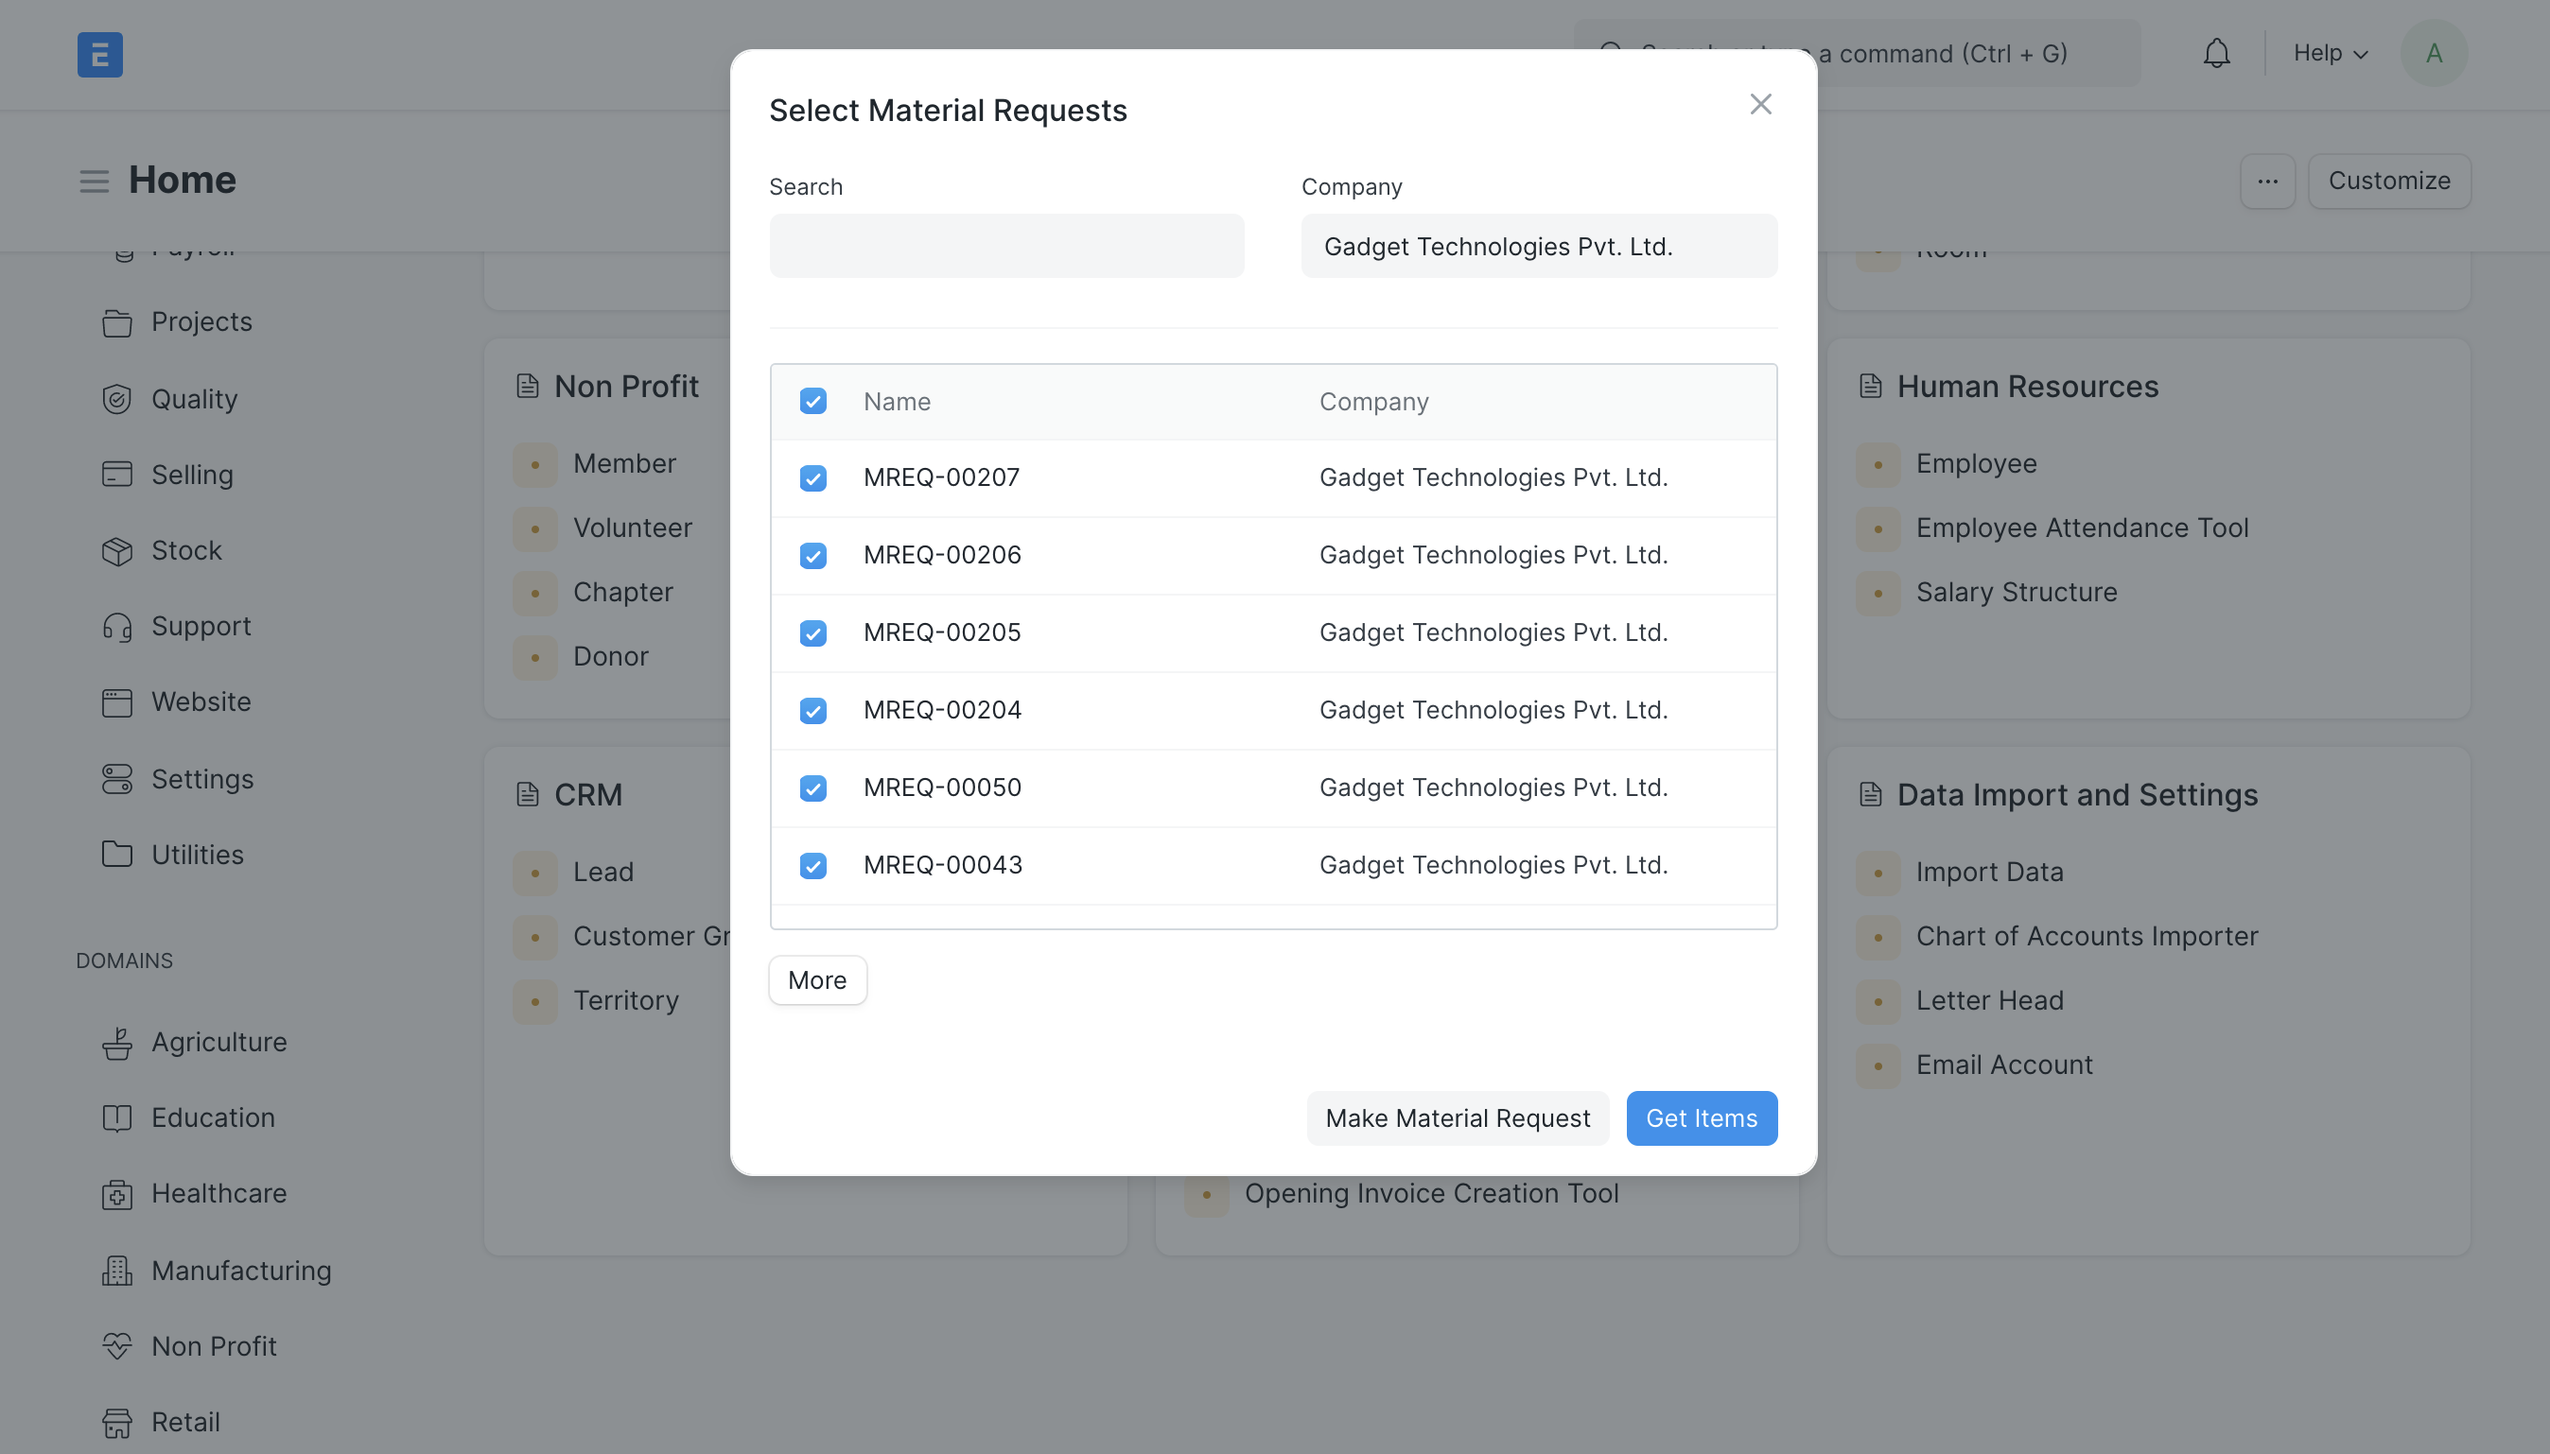
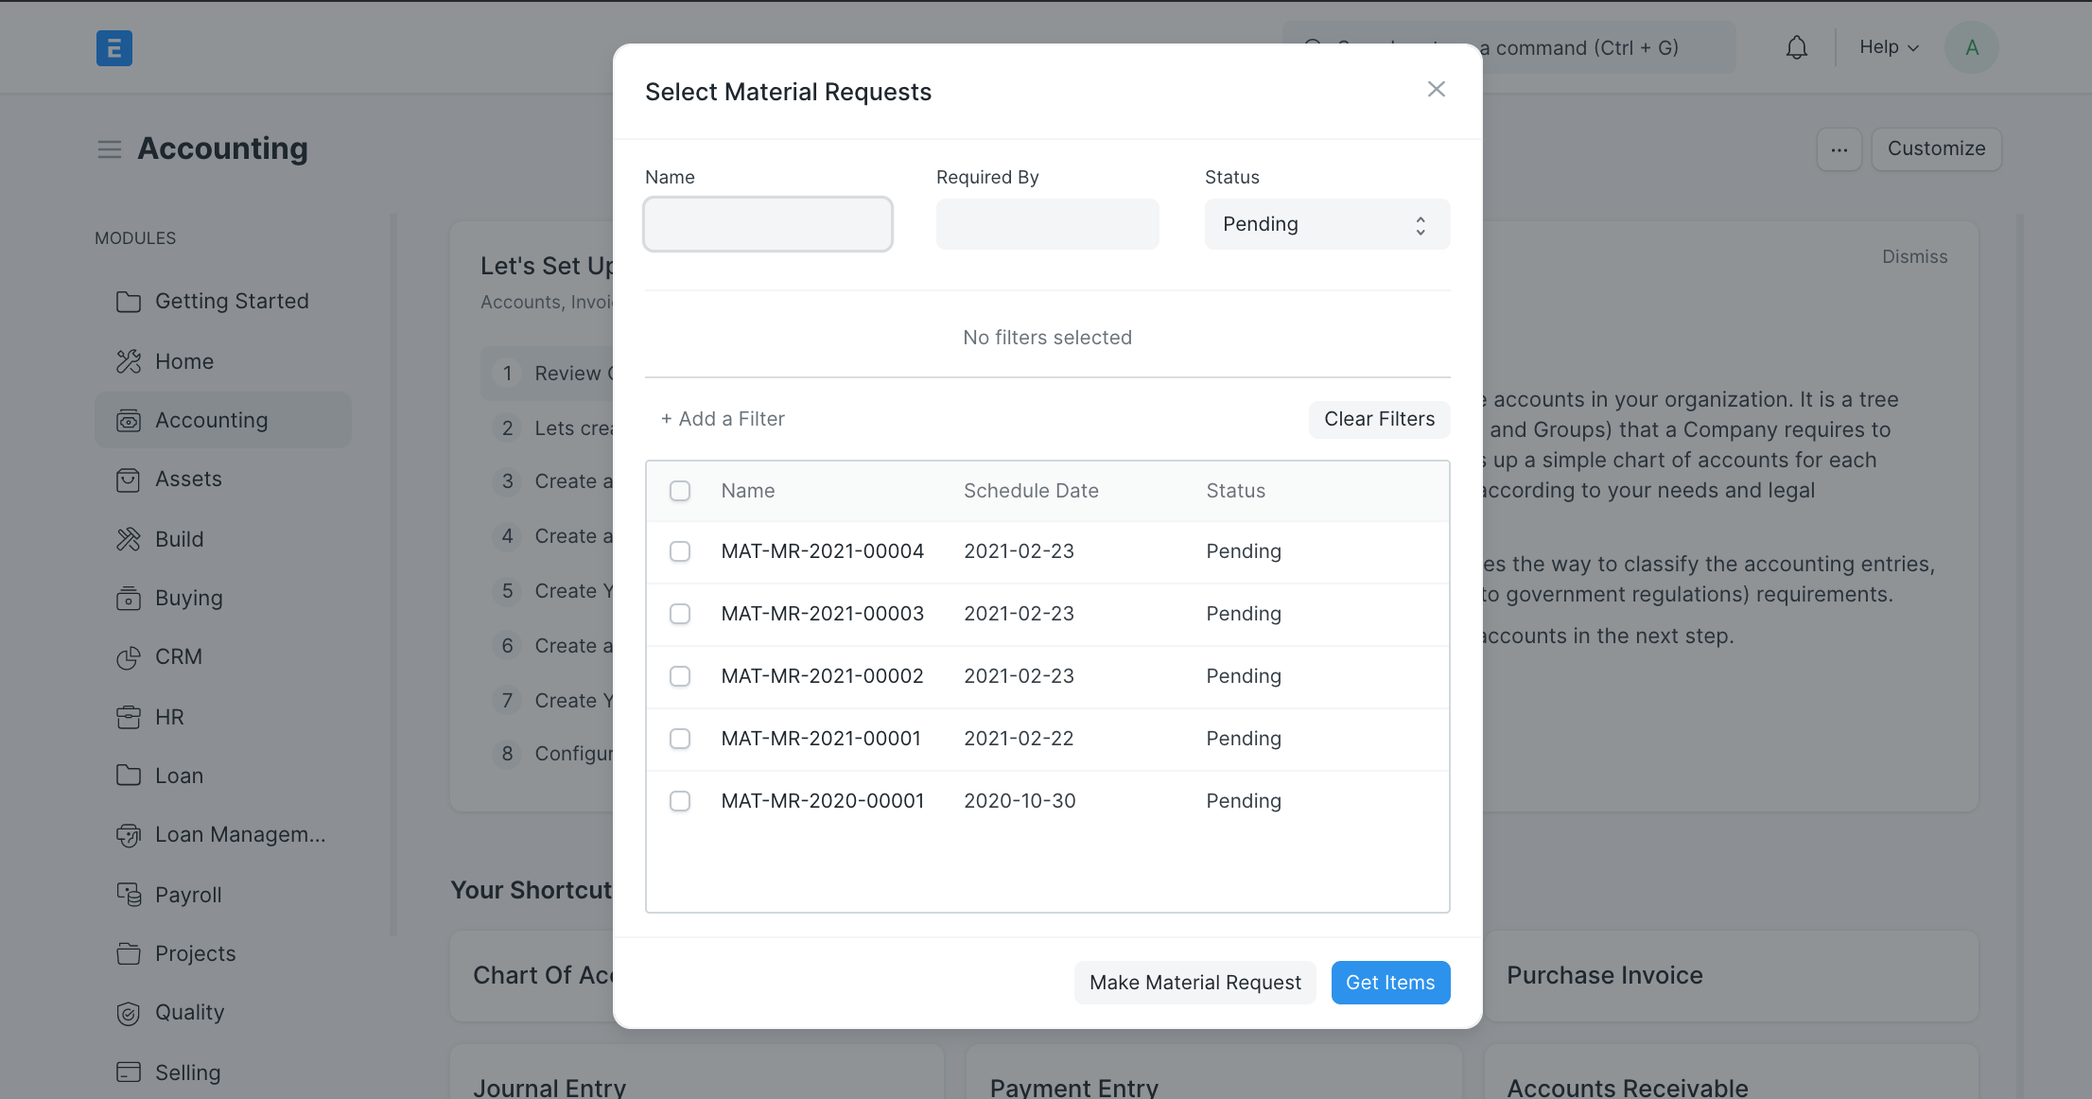
docs: update multi select dialog api (#137)
* docs: update multi select dialog api

* Update frappe_docs/www/docs/user/en/api/dialog.md

* chore: replace undefined with null

* docs: update fieldnames

diff --git a/frappe_docs/www/docs/user/en/api/dialog.md b/frappe_docs/www/docs/user/en/api/dialog.md
@@ -294,6 +294,7 @@ The argument list includes:
 - `doctype`: The source to fetch and display selection entries from.
 - `target`: The target where the modal is to be displayed.
 - `setters`: These will compose the filter fields and values to populate them with. These also translate to custom columns for the selection list.
+- `add_filters_group`: A boolean value to add/remove the filter group in the dialog below `setters`. The filter group is same as the list view filters.
 - `date_field`: It is necessary to pass the `date_field` of the DocType in consideration.
 - `get_query`: A function that returns `query` and `filters` to query the selection list. A custom server side method can be passed via `query`, and `filters` will be passed to that method.
 - `action`: Contains the primary action to be performed on the selected options. It takes `selections` as a parameter, which comprises of the selected options.
@@ -305,8 +306,10 @@ new frappe.ui.form.MultiSelectDialog({
 	doctype: "Material Request",
 	target: this.cur_frm,
 	setters: {
-		company: "Zoot"
+		schedule_date: null,
+		status: 'Pending'
 	},
+	add_filters_group: 1,
 	date_field: "transaction_date",
 	get_query() {
 		return {
@@ -328,8 +331,10 @@ new frappe.ui.form.MultiSelectDialog({
 	doctype: "Material Request",
 	target: this.cur_frm,
 	setters: {
-		company: "Zoot"
+		schedule_date: null,
+		status: 'Pending'
 	},
+	add_filters_group: 1,
 	date_field: "transaction_date",
 	get_query() {
 		return query_args;
@@ -346,3 +351,38 @@ new frappe.ui.form.MultiSelectDialog({
 Here all the Material Requests that fulfill the filter criteria will be fetched into the selection area. The setter `company` is added to the filter fields along with its passed value. The `date_field` will be used to fetch and query dates from the DocType mentioned.
 
 The **Make Material Request** (or `Make {DocType}`) secondary action button will redirect you to a new form in order to make a new entry into the DocType passed.
+
+Now, if we want to only select particular item from a Material Request, then we can use optional `child_selection_mode` to enable child selection
+
+```js
+
+// MultiSelectDialog for individual child selection
+new frappe.ui.form.MultiSelectDialog({
+	doctype: "Material Request",
+	target: this.cur_frm,
+	setters: {
+		schedule_date: null,
+		status: null
+	},
+	add_filters_group: 1,
+	date_field: "transaction_date",
+	allow_child_item_selection: 1,
+	child_fieldname: "items", // child table fieldname, whose records will be shown & can be filtered
+	child_columns: ["item_code", "qty"], // child item columns to be displayed
+	get_query() {
+		return {
+			filters: { docstatus: ['!=', 2] }
+		}
+	},
+	action(selections, args) {
+		console.log(args.filtered_children); // list of selected item names
+	}
+});
+```
+
+![MultiSelectDialog](/docs/assets/img/api/dialog-api-multiselectdialog-child-selection.png)
+*frappe.ui.form.MultiSelectDialog*
+
+Here you will see a checkbox **Select Individual Items** to toggle between child item selection & parent selection. Once you toggle it, all the individual Material Requests Items are listed from the all the queried Material Request, you can now filter these items for selection. 
+
+To access the selected children, you can use `args.filtered_children` list which contains selected child item names.
